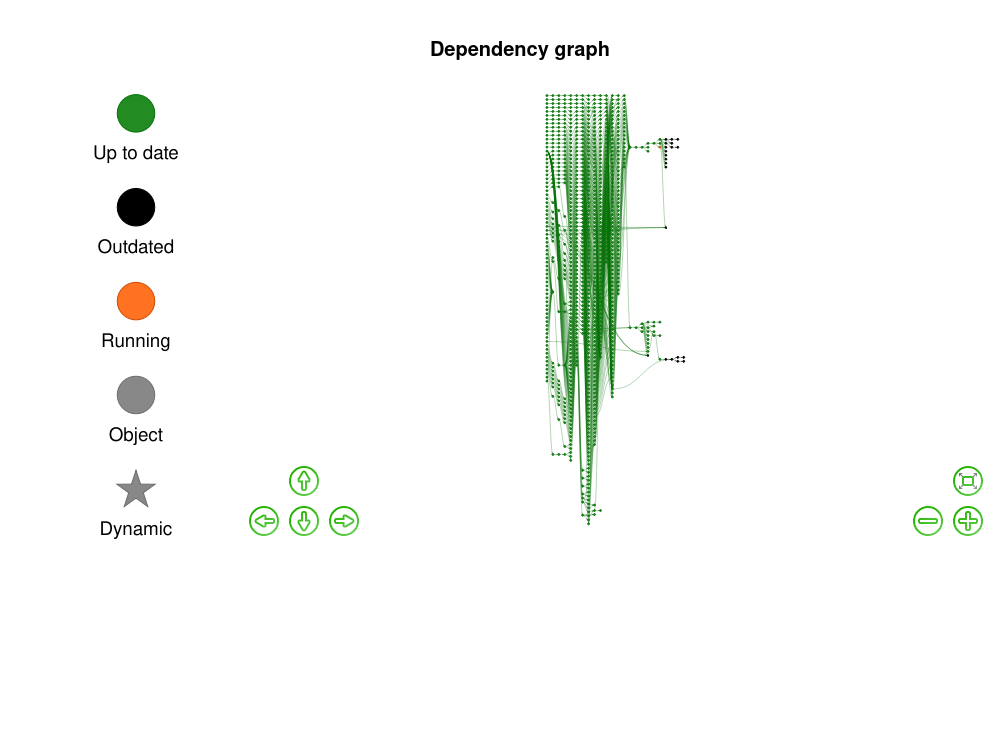
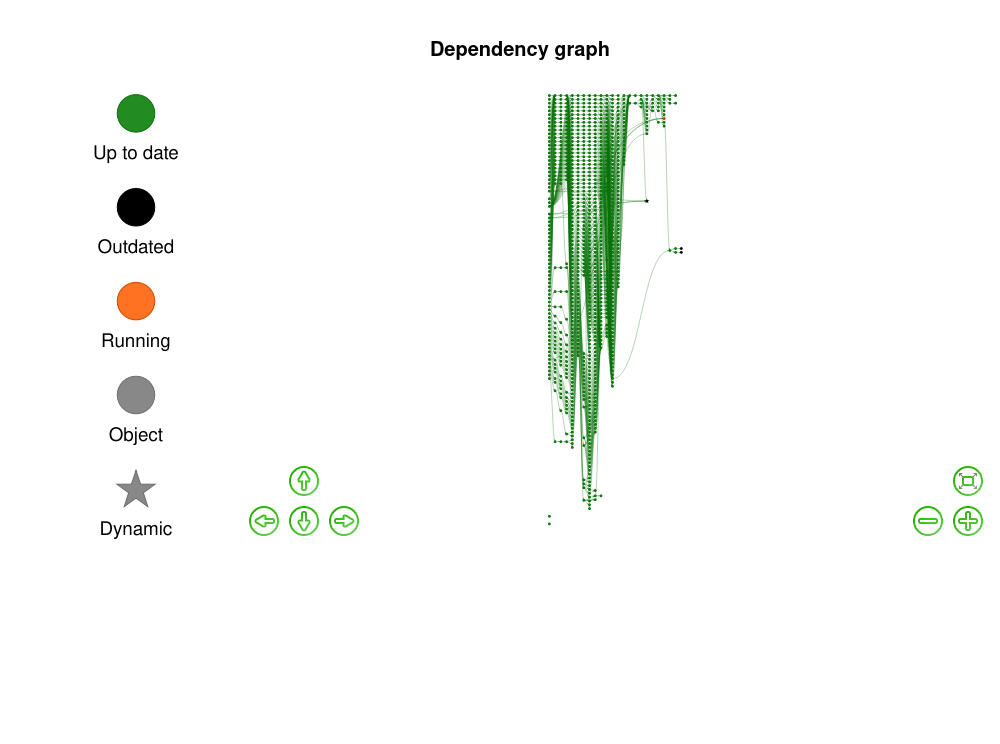
add lisi, harmony dynamic

Changed region(s): [[0.527, 0.1237, 0.682, 0.711]]

diff --git a/ikarus_tutorial.py b/ikarus_tutorial.py
@@ -4,6 +4,12 @@ import pandas as pd
 from pathlib import Path
 from ikarus import classifier, utils, data
 
+import numpy as np
+import scanpy as sc
+import matplotlib.pyplot as plt
+from sklearn import metrics
+
+
 signatures_path = 'ikarus/signatures.gmt'
 pd.read_csv(signatures_path, sep="\t", header=None)
 
@@ -14,78 +20,11 @@ model.load_core_model(model_path)
 
 adata = anndata.read_h5ad("ikarus/lx049.h5ad")
 
+# add gene_symbol metadata for model.predict 
+adata.var['gene_symbol']= adata.var.index
+
+
 _ = model.predict(adata, "lx049", save=True)
-
-
-
-import numpy as np
-import scanpy as sc
-import matplotlib.pyplot as plt
-from sklearn import metrics
-
-def plot_confusion_matrix(
-    y_true, y_pred, classes, normalize=False, title=None, cmap=plt.cm.Blues, ax=None
-):
-    """
-    This function prints and plots the confusion matrix.
-    Normalization can be applied by setting `normalize=True`.
-    """
-    plt.rcParams["figure.figsize"] = [6, 4]
-    # print(classes)
-    if not title:
-        if normalize:
-            title = "Normalized confusion matrix"
-        else:
-            title = "Confusion matrix, without normalization"
-
-    # Compute confusion matrix
-    cm = metrics.confusion_matrix(y_true, y_pred, labels=classes)
-    # Only use the labels that appear in the data
-    # classes = classes[unique_labels(y_true, y_pred)]
-    if normalize:
-        cm = cm.astype("float") / cm.sum(axis=1)[:, np.newaxis]
-
-    if ax is None:
-        (fig, ax) = plt.subplots()
-
-    im = ax.imshow(cm, interpolation="nearest", cmap=cmap)
-    ax.figure.colorbar(im, ax=ax)
-    # We want to show all ticks...
-    ax.set(
-        xticks=np.arange(cm.shape[1]),
-        yticks=np.arange(cm.shape[0]),
-        # ... and label them with the respective list entries
-        xticklabels=classes,
-        yticklabels=classes,
-        title=title,
-        ylabel="True label",
-        xlabel="Predicted label",
-    )
-    for item in (
-        [ax.title, ax.xaxis.label, ax.yaxis.label]
-        + ax.get_xticklabels()
-        + ax.get_yticklabels()
-    ):
-        item.set_fontsize(12)
-
-    # Rotate the tick labels and set their alignment.
-    plt.setp(ax.get_xticklabels(), rotation=45, ha="right", rotation_mode="anchor")
-
-    # Loop over data dimensions and create text annotations.
-    fmt = ".2f" if normalize else "d"
-    thresh = cm.max() / 2.0
-    for i in range(cm.shape[0]):
-        for j in range(cm.shape[1]):
-            ax.text(
-                j,
-                i,
-                format(cm[i, j], fmt),
-                ha="center",
-                va="center",
-                color="white" if cm[i, j] > thresh else "black",
-            )
-
-    return fig, ax
 
 print('get umap on predicted model')
 _ = model.get_umap(adata, "lx049", save=True)

diff --git a/ikarus_function.py b/ikarus_function.py
@@ -1,0 +1,66 @@
+import matplotlib.pyplot as plt
+def plot_confusion_matrix(
+    y_true, y_pred, classes, normalize=False, title=None, cmap=plt.cm.Blues, ax=None
+):
+    """
+    This function prints and plots the confusion matrix.
+    Normalization can be applied by setting `normalize=True`.
+    """
+    plt.rcParams["figure.figsize"] = [6, 4]
+    # print(classes)
+    if not title:
+        if normalize:
+            title = "Normalized confusion matrix"
+        else:
+            title = "Confusion matrix, without normalization"
+
+    # Compute confusion matrix
+    cm = metrics.confusion_matrix(y_true, y_pred, labels=classes)
+    # Only use the labels that appear in the data
+    # classes = classes[unique_labels(y_true, y_pred)]
+    if normalize:
+        cm = cm.astype("float") / cm.sum(axis=1)[:, np.newaxis]
+
+    if ax is None:
+        (fig, ax) = plt.subplots()
+
+    im = ax.imshow(cm, interpolation="nearest", cmap=cmap)
+    ax.figure.colorbar(im, ax=ax)
+    # We want to show all ticks...
+    ax.set(
+        xticks=np.arange(cm.shape[1]),
+        yticks=np.arange(cm.shape[0]),
+        # ... and label them with the respective list entries
+        xticklabels=classes,
+        yticklabels=classes,
+        title=title,
+        ylabel="True label",
+        xlabel="Predicted label",
+    )
+    for item in (
+        [ax.title, ax.xaxis.label, ax.yaxis.label]
+        + ax.get_xticklabels()
+        + ax.get_yticklabels()
+    ):
+        item.set_fontsize(12)
+
+    # Rotate the tick labels and set their alignment.
+    plt.setp(ax.get_xticklabels(), rotation=45, ha="right", rotation_mode="anchor")
+
+    # Loop over data dimensions and create text annotations.
+    fmt = ".2f" if normalize else "d"
+    thresh = cm.max() / 2.0
+    for i in range(cm.shape[0]):
+        for j in range(cm.shape[1]):
+            ax.text(
+                j,
+                i,
+                format(cm[i, j], fmt),
+                ha="center",
+                va="center",
+                color="white" if cm[i, j] > thresh else "black",
+            )
+
+    return fig, ax
+
+
